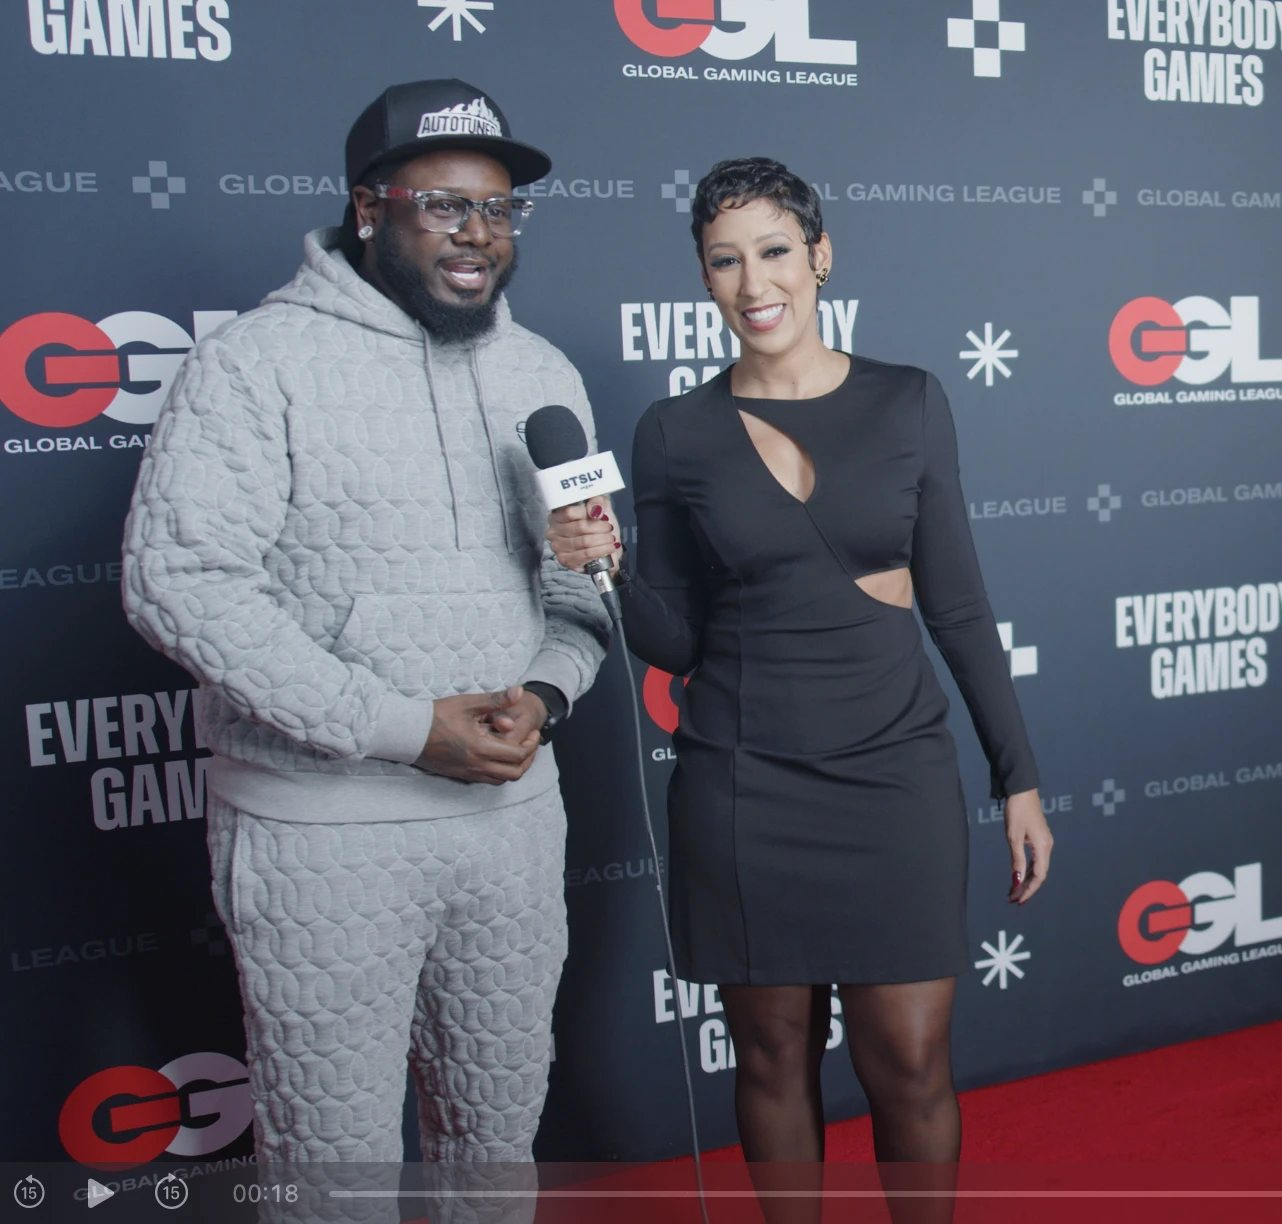
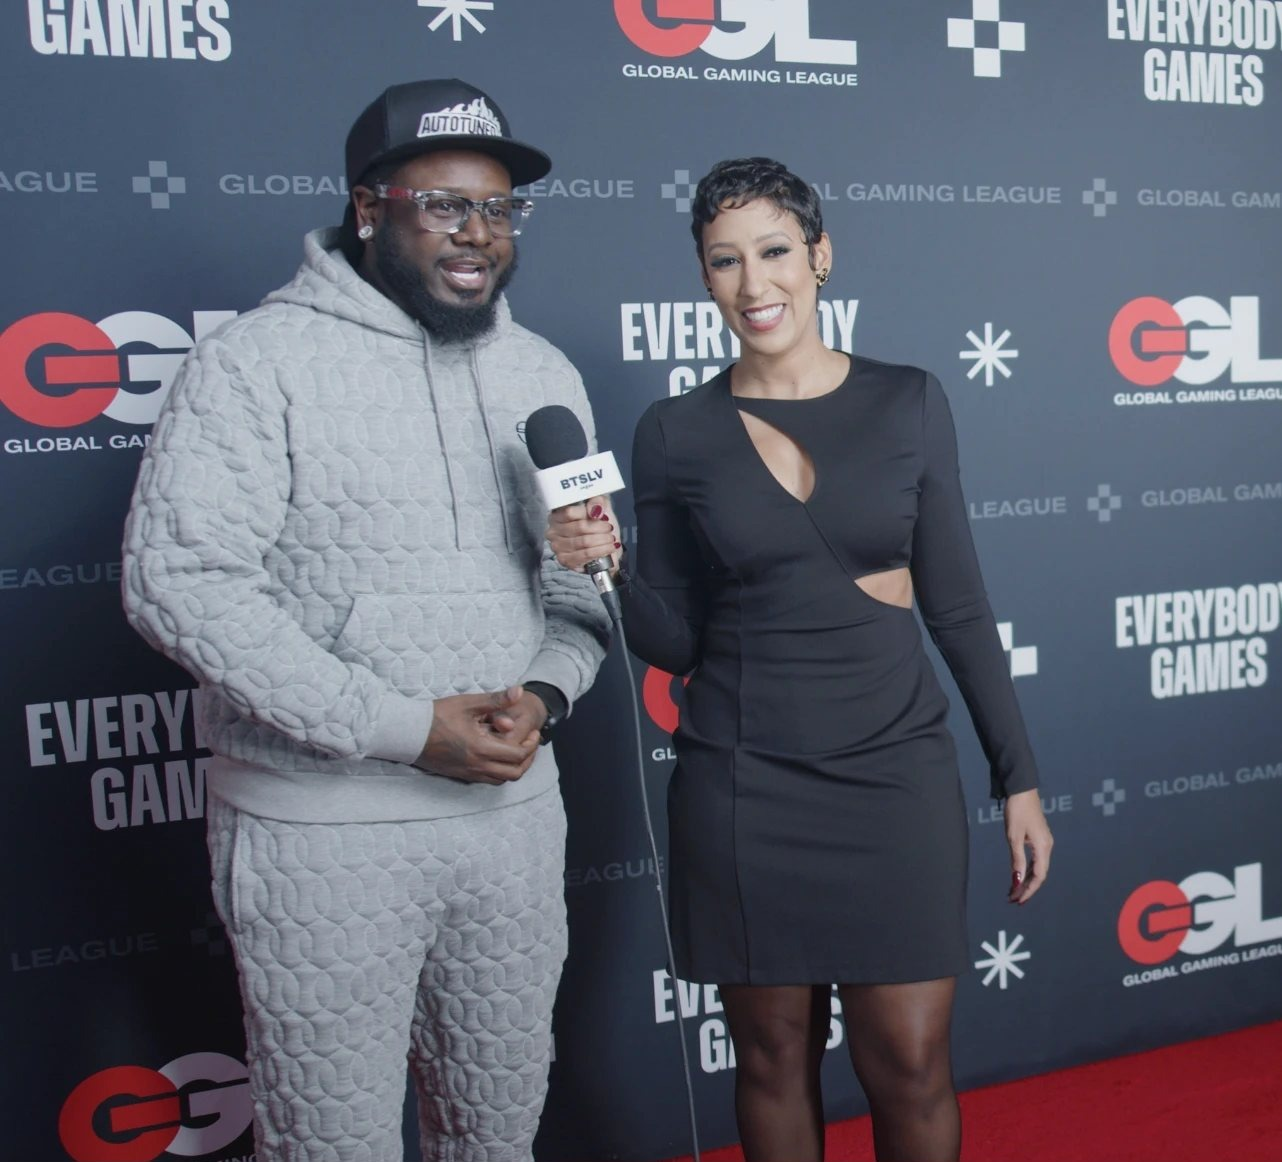
Crop video-player bar off T-Pain photo (GGL page + stars gallery)
Trim the baked-in video scrubber/controls from the bottom of the T-Pain
red-carpet image so only the photo shows. Height 1224 -> 1162; update the
GGL <img> height attribute to match.

Claude-Session: https://claude.ai/code/session_01FEjmKaxiwjKdYgFvJ56WtP

diff --git a/work/global-gaming-league.html b/work/global-gaming-league.html
@@ -84,7 +84,7 @@
             <div class="credit-meta__item"><span class="overline">Presented by</span><p>Global Gaming League</p></div>
           </div>
           <figure class="credit-photo">
-            <img src="../img/work/ggl/t-pain.jpg" width="1282" height="1224" loading="lazy"
+            <img src="../img/work/ggl/t-pain.jpg" width="1282" height="1162" loading="lazy"
                  alt="Ashley Nicole Singleton interviewing T-Pain on the Global Gaming League red carpet" />
             <figcaption>T-Pain</figcaption>
           </figure>
